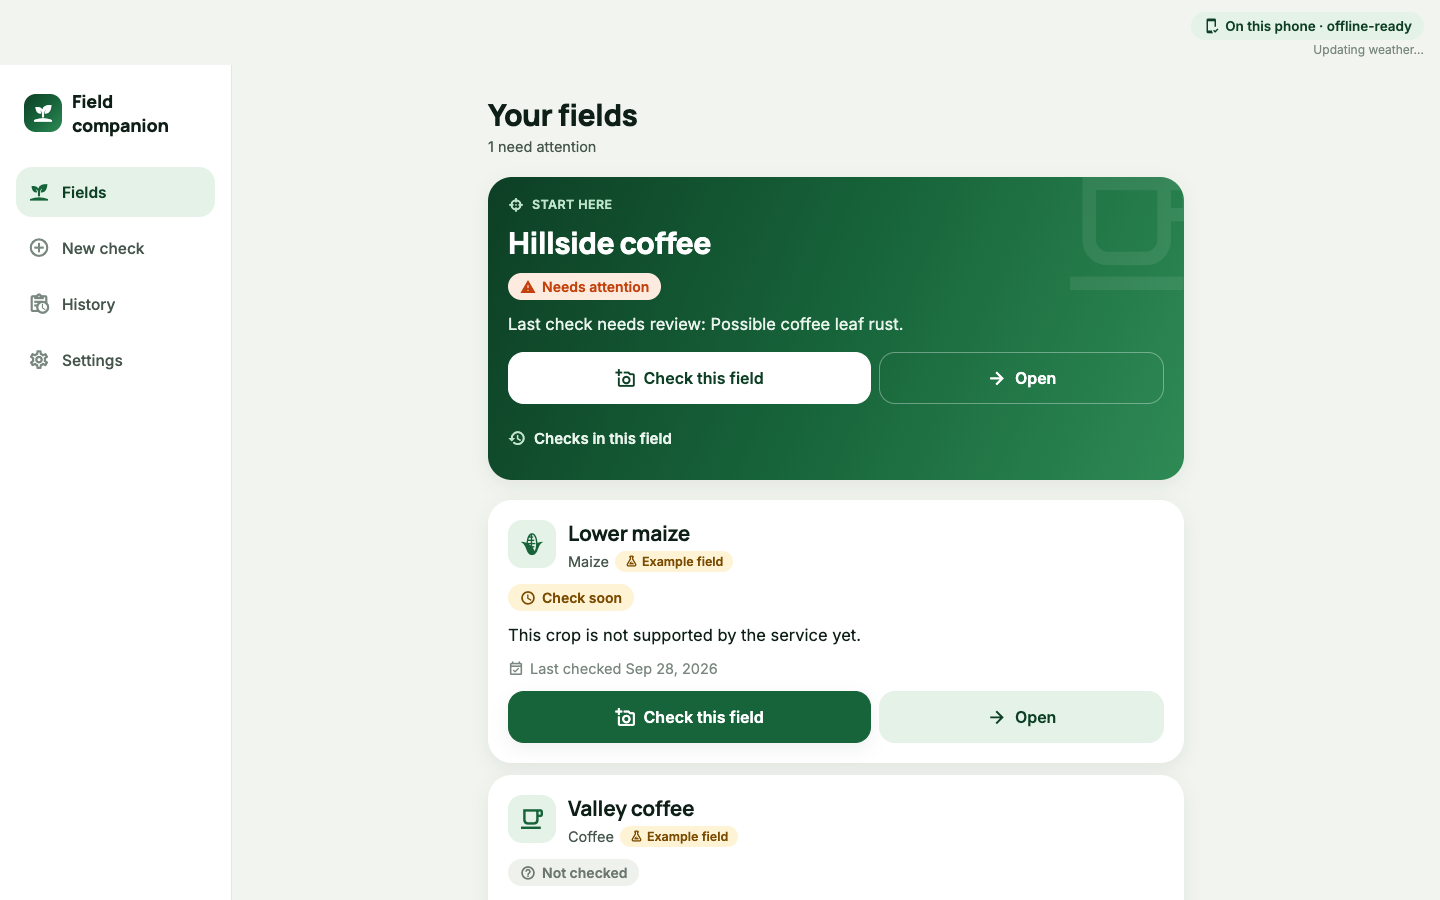
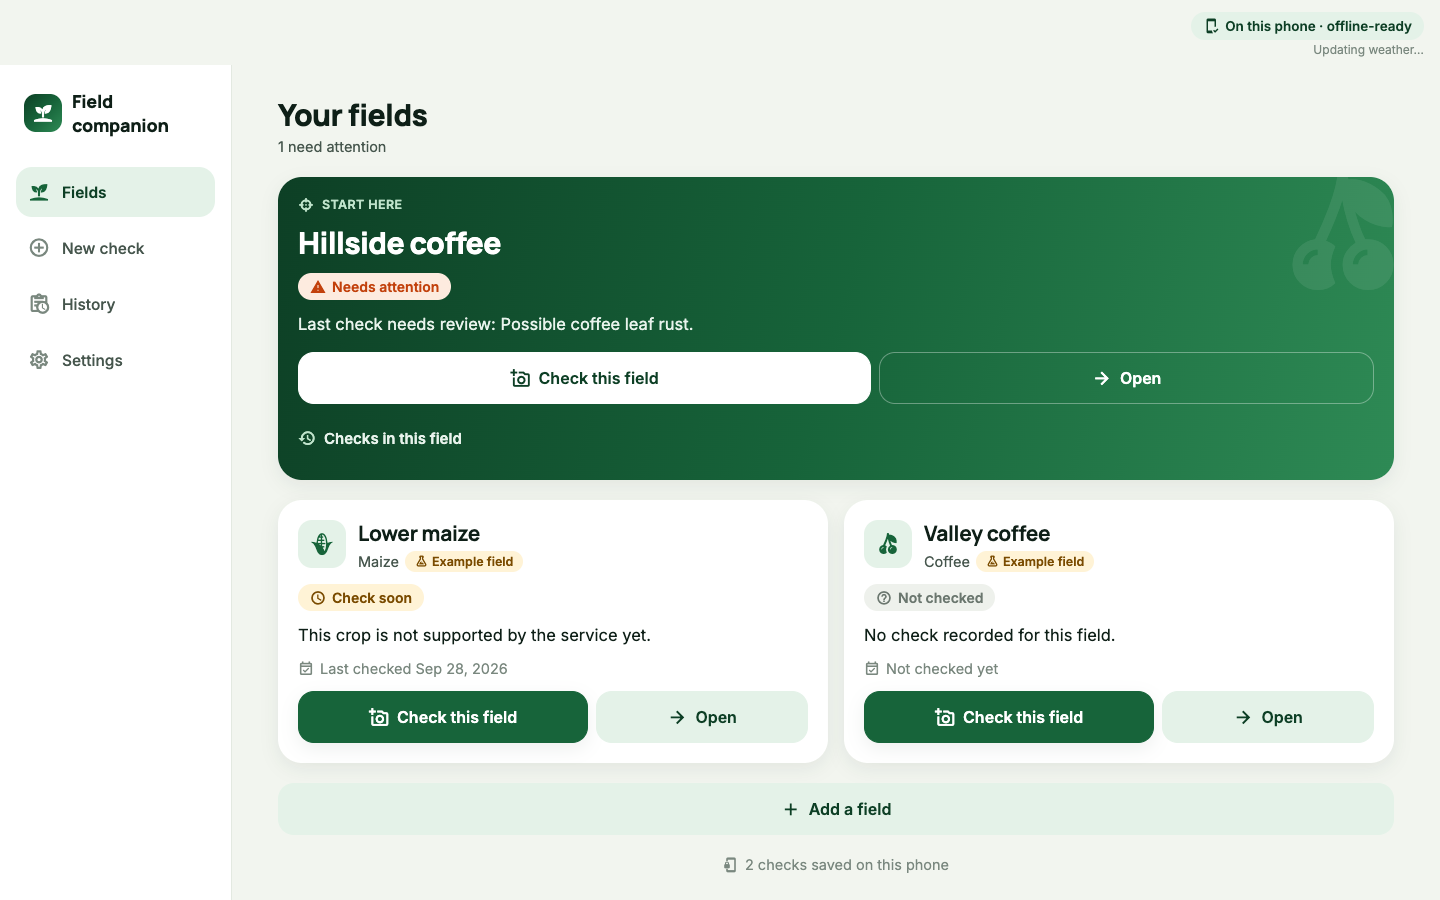
Desktop home: two-column field grid; coffee shown as cherries, not a mug

diff --git a/frontend/src/i18n/sw.ts b/frontend/src/i18n/sw.ts
@@ -1,5 +1,5 @@
 // MACHINE TRANSLATION (Xenova/nllb-200-distilled-600M, CC BY-NC 4.0 (non-commercial)) of en.ts — not reviewed by a native speaker.
-// Generated by scripts/translate-ui.ts on 2026-10-04T11:26:53.579Z. Keys falling back to English: 0.
+// Generated by scripts/translate-ui.ts on 2026-10-04T12:07:31.355Z. Keys falling back to English: 0.
 import type { Messages } from './en';
 
 export const sw: Partial<Messages> = {
@@ -162,8 +162,8 @@ export const sw: Partial<Messages> = {
   "settings.language": "Lugha",
   "settings.notAvailable": "haipo bado",
   "settings.source": "Matokeo yanatoka wapi",
-  "settings.source.mock": "Demo kujengwa (offline)",
-  "settings.source.mock.detail": "Daima kazi bila mtandao. Matokeo ni synthetic.",
+  "settings.source.mock": "Demo (mfano fasta)",
+  "settings.source.mock.detail": "Daima kazi, hakuna mfano na hakuna kupakua.",
   "settings.source.http": "Server",
   "settings.source.http.detail": "Hutumia ripoti yako ya dalili, mazao, wakati na eneo la shamba (bila picha au maelezo) kwa seva hapa chini kwa uchambuzi.",
   "settings.url": "Anwani ya seva",
@@ -177,10 +177,10 @@ export const sw: Partial<Messages> = {
   "settings.reset.no": "Weka data yangu",
   "settings.limits": "Nini hii toleo haina kufanya",
   "settings.limit.inference": "Hakuna mfano wa utambuzi wa mimea: picha hazichambuliwi; matokeo yanatoka kwa ripoti yako ya dalili na huduma ya demo.",
-  "settings.limit.sync": "Hakuna historia sync: kuangalia ni kuhifadhiwa kwenye simu hii. katika hali ya seva tu ripoti dalili (hakuna picha) hutumwa, kupata matokeo.",
+  "settings.limit.sync": "Checks kukaa kwenye simu hii. Hakuna kupakia au kushiriki historia; kushiriki na afisa ni mwongozo na inahitaji uthibitisho wako.",
   "settings.limit.map": "Hakuna ramani ya hatari ya kuishi au hali ya hewa bado.",
   "settings.limit.notify": "Kumbukumbu ya kufuatilia kuonekana ndani ya programu tu.",
-  "settings.limit.voice": "Hakuna sauti ya kuingia bado.",
+  "settings.limit.voice": "Hakuna sauti ya kuingia au kusoma kwa sauti bado.",
   "symptom.orange_powder_leaf_underside": "Poda ya manjano-nyeusi chini ya majani",
   "symptom.yellow_spots_upper_leaf": "Machafu ya manjano nyepesi juu ya majani",
   "symptom.brown_dry_lesion_centres": "Maeneo yenye vituo vya rangi ya kahawia kavu",
@@ -255,15 +255,15 @@ export const sw: Partial<Messages> = {
   "location.longitude": "Urefu (−180 hadi 180)",
   "location.saveManual": "Hifadhi eneo",
   "location.remove": "Ondoa eneo",
-  "location.fromGps": "Kutoka eneo simu hii, rounded hadi karibu mita 100.",
-  "location.fromManual": "Kuandika, kuzunguka hadi mita 100 hivi.",
+  "location.fromGps": "Kutoka eneo la simu hii.",
+  "location.fromManual": "Imeandikwa.",
   "location.denied": "ruhusa ya eneo halikupewa. Unaweza kuandika koordinati badala yake, au kuweka uwanja bila eneo.",
   "location.unavailable": "Hatuwezi kupata eneo sasa hivi. Unaweza kuandika koordinati au jaribu tena nje.",
   "location.error.missing": "Ingiza latitude na longitude.",
   "location.error.not_number": "Tumia nambari tu, kwa mfano -1.950 na 30.060.",
   "location.error.latitude_range": "Urefu lazima uwe kati ya -90 na 90.",
   "location.error.longitude_range": "Urefu wa urefu lazima uwe kati ya −180 na 180.",
-  "location.privacy": "Imehifadhiwa kwenye simu hii, imezunguka hadi mita 100 hivi. Imepelekwa kwa seva tu kwa kuangalia, katika hali ya Server, kupata hali ya hewa na alama za utambuzi.",
+  "location.privacy": "Imehifadhiwa kwenye simu hii na usahihi wake. Inatumika kwenye simu hii kwa hali ya hewa na uchunguzi; hutumwa kwa seva tu ikiwa unachagua hali ya Server. Mahali huombwa tu unapobonyeza kitufe.",
   "mode.chip.mock": "Data ya maonyesho · nje ya mtandao",
   "mode.chip.http": "Server",
   "mode.chip.unreachable": "Server haiwezi kupatikana",
@@ -309,6 +309,46 @@ export const sw: Partial<Messages> = {
   "age.hours": "{n} h iliyopita",
   "age.days": "{n} siku zilizopita",
   "result.localStamp": "KUSUSUSUKA KATIKA DIVISI · matokeo ya mfano + kanuni za chanzo · si utambuzi",
+  "location.accuracy": "Inajulikana kwa takriban {m} m. Ramani ya upelelezi haionyeshi maelezo ya kina zaidi kuliko hii.",
+  "result.map.question": "Ni wapi unapaswa kuangalia next? squares giza kwanza. hii ni upendeleo wa upimaji, si nafasi ya maambukizo.",
+  "result.map.h24": "Saa 24 zijazo",
+  "result.map.days": "{n} siku",
+  "result.map.wind": "Upepo hasa kutoka {dir} katika kipindi hiki, hivyo spores huwa hoja mbali na upande huo.",
+  "result.map.windVariable": "Mwendo wa upepo hutofautiana katika kipindi hiki; kipaumbele huenea kwa usawa karibu na mmea.",
+  "result.map.uncertainty": "Kutokuwa na uhakika wa eneo (karibu {m} m)",
+  "compass.0": "kaskazini",
+  "compass.1": "kaskazini mashariki",
+  "compass.2": "Mashariki",
+  "compass.3": "kusini mashariki",
+  "compass.4": "kusini",
+  "compass.5": "kusini magharibi",
+  "compass.6": "Magharibi",
+  "compass.7": "kaskazini magharibi",
+  "lang.machine": "Tafsiri ya mashine kwenye simu hii (NLLB-200). Bado si kuchunguzwa na mzungumzaji wa asili.",
+  "settings.source.local": "Kwenye simu hii (inapendekezwa)",
+  "settings.source.local.detail": "Kiwanda mfano, uchambuzi na tafsiri kazi kwenye kifaa hiki. kazi nje ya mtandao baada ya kupakua kwanza na hali ya hewa sync.",
+  "settings.source.local.unavailable": "Bado haipatikani kwenye kifaa hiki; demo hutumiwa badala yake.",
+  "settings.sync": "Data sync",
+  "settings.sync.detail": "Historia ya hali ya hewa na utabiri wa siku 7 kwa {n} eneo(s). Inasasishwa moja kwa moja wakati wa mkondoni (kila saa 6 kwa kiwango cha juu); kutumika nje ya mtandao hadi ushirikiano unaofuata.",
+  "settings.sync.partial": "{n} eneo ((s) haikuweza kusasishwa mara ya mwisho; data zao za zamani bado zinatumiwa.",
+  "settings.sync.now": "Sync sasa",
+  "settings.models": "Mifano kwenye kifaa hiki",
+  "settings.models.vision": "Kuhusu {mb} MB, kupakuliwa mara moja kwa matumizi ya kwanza na kuhifadhiwa na browser. Hali: {cached}.",
+  "settings.models.cached": "tayari nje ya mtandao",
+  "settings.models.notCached": "bado haijatumwa",
+  "settings.models.translation": "Kuhusu {mb} MB, kupakuliwa wakati matokeo ya Kinyarwanda au Kiswahili yanahitajika kwanza. Leseni: {license}.",
+  "settings.models.swap": "Hizi ni vituo vya umma. timu  ya moduli ya kupanda iliyoboreshwa inachukua nafasi ya kwanza bila kubadilisha programu.",
+  "settings.limit.model": "Mfano wa mmea ni kituo cha kuangalia umma, bado si bora kwa ajili ya magonjwa ya kahawa: ni kuaminika kuona rust-kama unga wa machungwa na kama picha inaonyesha jani, kidogo zaidi.",
+  "settings.limit.calibration": "Pointi, hali ya hewa ya manufaa na utaratibu wa kwanza wa uchunguzi ni makadirio yasiyo ya kipimo, si uwezekano; si kuthibitishwa dhidi ya tukio la uwanja.",
+  "settings.limit.translation": "Kinyarwanda na Kiswahili ni tafsiri za mashine, ambazo bado hazijatathminiwa na wasemaji wa asili.",
+  "settings.limit.weather": "Hali ya hewa ni data ya mfano (Open-Meteo), si kituo; nje ya mtandao, sync ya mwisho hutumiwa na umri wake unaonyeshwa.",
+  "settings.limit.native": "Mifano ya kifaa kwa sasa huendeshwa katika vivinjari vya wavuti na WebGPU (Chrome / Edge); programu za iOS / Android zinarudi kwenye onyesho.",
+  "result.originalLabel": "Original (Kingereza): {label}",
+  "plan.title": "Nifanye nini",
+  "plan.today": "Leo",
+  "plan.next": "Yafuatayo",
+  "plan.ifWorse": "Kama ni mbaya zaidi",
+  "plan.sourcesBelow": "Kila hatua ni kutoka kuchapishwa upanuzi au vyanzo utafiti; ona Mwongozo hapa chini.",
   "common.loading": "Kubeba...",
   "common.close": "Karibu",
   "common.yes": "Ndiyo",

diff --git a/frontend/src/screens/FieldsScreen.tsx b/frontend/src/screens/FieldsScreen.tsx
@@ -1,5 +1,5 @@
 import React, { useMemo, useState } from 'react';
-import { Pressable, Text, TextInput, View } from 'react-native';
+import { Pressable, Text, TextInput, useWindowDimensions, View } from 'react-native';
 import { fieldAttention, sortFieldsByAttention, type Field } from '../domain/model';
 import { formatDate, type MessageId } from '../i18n';
 import type { Nav } from '../navigation';
@@ -29,6 +29,7 @@ export function FieldsScreen({ nav }: { nav: Nav }) {
   const actCount = summaries.filter(s => s.level === 'act').length;
   const top = summaries[0] && summaries[0].level !== 'ok' ? summaries[0] : undefined;
   const [adding, setAdding] = useState(false);
+  const wide = useWindowDimensions().width >= 1180;
 
   return (
     <View style={{ gap: space(5) }}>
@@ -61,8 +62,8 @@ export function FieldsScreen({ nav }: { nav: Nav }) {
         </LinearGradient>
       ) : null}
 
-      <View style={{ gap: space(3) }}>
-        {summaries.filter(s => s !== top).map(s => <FieldCard key={s.field.id} summary={s} nav={nav} />)}
+      <View style={wide ? { flexDirection: 'row', flexWrap: 'wrap', gap: space(4) } : { gap: space(3) }}>
+        {summaries.filter(s => s !== top).map(s => <View key={s.field.id} style={wide ? { flexBasis: '47%', flexGrow: 1 } : undefined}><FieldCard summary={s} nav={nav} /></View>)}
       </View>
 
       {adding ? <AddField onDone={() => setAdding(false)} /> : <Button kind="secondary" icon="plus" label={t('fields.add')} onPress={() => setAdding(true)} />}
@@ -74,7 +75,7 @@ export function FieldsScreen({ nav }: { nav: Nav }) {
   );
 }
 
-export const CROP_ICON: Record<string, string> = { coffee: 'coffee-outline', maize: 'corn', beans: 'seed-outline', banana: 'fruit-pineapple' };
+export const CROP_ICON: Record<string, string> = { coffee: 'fruit-cherries', maize: 'corn', beans: 'seed-outline', banana: 'leaf' };
 
 function condLabel(r?: { analysis: { kind: string; analysis?: { condition: { label: string } } } }) {
   return r?.analysis.kind === 'done' ? r.analysis.analysis?.condition.label : undefined;

diff --git a/frontend/App.tsx b/frontend/App.tsx
@@ -80,7 +80,7 @@ function Shell() {
       <Header onMode={() => goTab('settings')} showBrand={!wide} />
       <View style={{ flex: 1, flexDirection: wide ? 'row' : 'column' }}>
         {wide ? tabs : null}
-        <ScrollView ref={scroll} style={{ flex: 1 }} contentContainerStyle={{ padding: space(wide ? 8 : 4), paddingTop: space(wide ? 8 : 2), paddingBottom: space(8), width: '100%', maxWidth: route.name === 'result' && width >= RESULT_TWO_COLUMN_MIN ? 1180 : 760, alignSelf: 'center', gap: space(3) }}>
+        <ScrollView ref={scroll} style={{ flex: 1 }} contentContainerStyle={{ padding: space(wide ? 8 : 4), paddingTop: space(wide ? 8 : 2), paddingBottom: space(8), width: '100%', maxWidth: (route.name === 'result' || route.name === 'fields') && width >= RESULT_TWO_COLUMN_MIN ? 1180 : 760, alignSelf: 'center', gap: space(3) }}>
           <LanguageNotice />
           {storageError ? <Text accessibilityRole="alert" style={[type.body, { color: color.clay }]}>Storage error: {storageError}</Text> : null}
           {recovered ? <Text accessibilityRole="alert" style={[type.small, { color: color.clay }]}>Saved data could not be read; example data restored (backup kept).</Text> : null}
